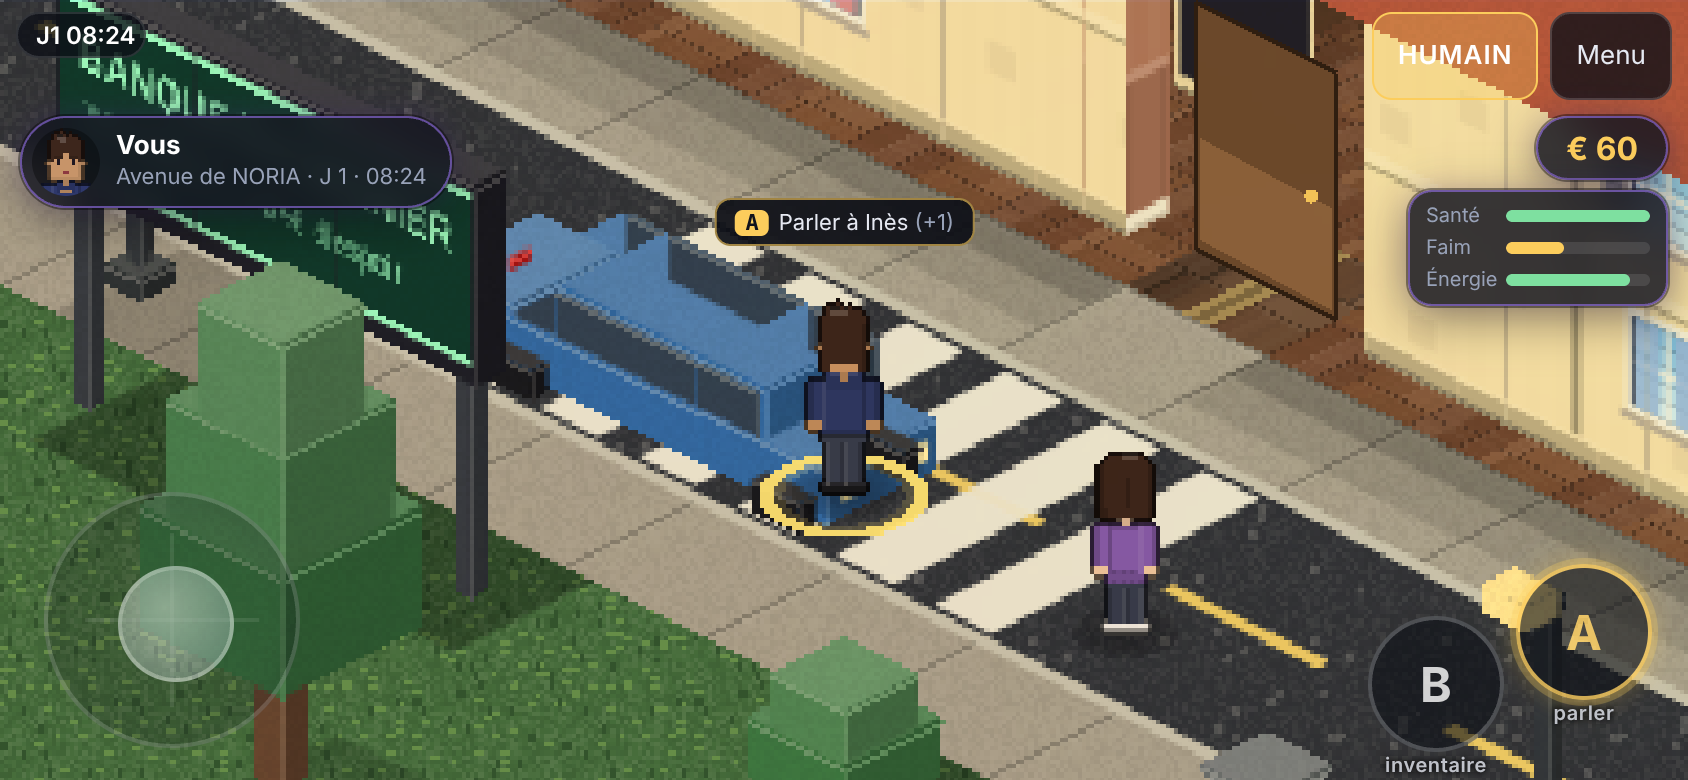
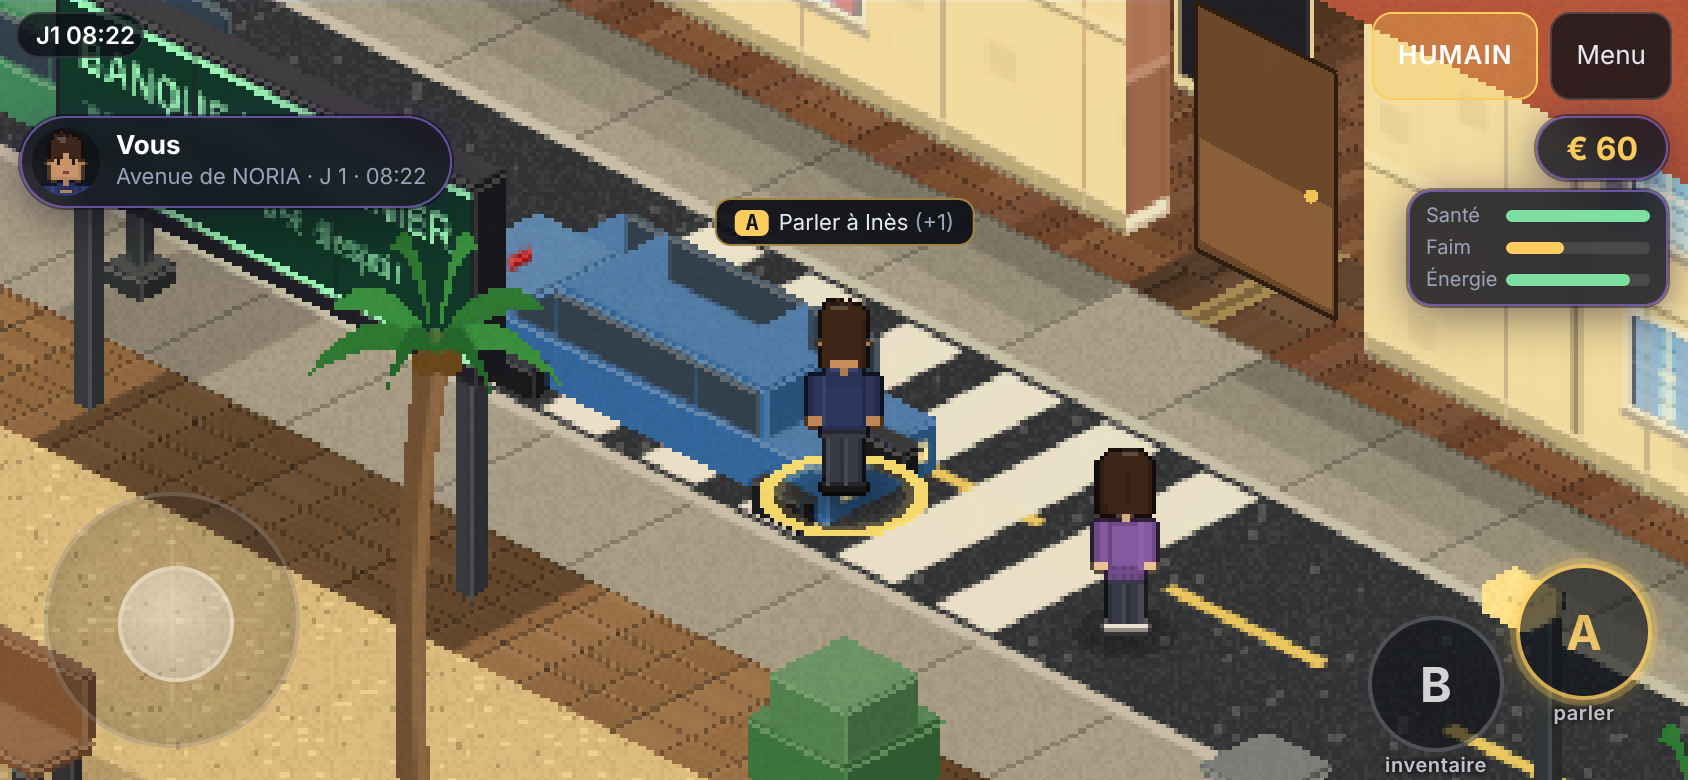
P2 Noria Beach : promenade, sable, océan non praticable, palmiers, parasols, transats
Claude-Session: https://claude.ai/code/session_01TgHL2ERFFt3nTP8cEL1RNQ

diff --git a/src/art/furn.ts b/src/art/furn.ts
@@ -6,7 +6,7 @@ export const PAD: Record<string, number> = {
   bed_y: 28, bed_yw: 28, nightstand: 34, wardrobe: 66, rug: 4, fridge: 58, counter: 38, counter_w: 38, stove: 64, sink_k: 44, table: 34,
   chair_s: 34, chair_n: 34, chair_e: 34, chair_w: 34, sofa_s: 40, armchair_e: 40, tv: 40, coffee_table: 18, bookshelf: 62, plant: 48, floor_lamp: 74,
   toilet: 34, shower: 78, sink_b: 70, bathtub: 26, washer: 40, basket: 24, bench: 22, coat_rack: 76, shoe_rack: 20, console: 50, bin: 22, altar: 40,
-  back_shelf: 70, bar_counter: 44, stool: 30, jukebox: 60, bar_table: 34, streetlamp: 100, street_bench: 30, bar_sign: 104, shelf3: 62, shelf4: 62, shop_counter: 46, desk: 42, park_bench: 30, bush: 40, hydrant: 22, mailbox: 36, kiosk: 62, billboard: 100, dumpster: 36, vending: 62, planter: 30, bike_rack: 22, car_p: 38, car_w: 38, phone_booth: 74, tree: 120, m_clothes: 12, m_book: 12, m_cup: 14, m_pizza: 12, m_trash: 16, m_dishes: 14, m_feast0: 30, m_feast1: 30, m_feast2: 30,
+  back_shelf: 70, bar_counter: 44, stool: 30, jukebox: 60, bar_table: 34, streetlamp: 100, street_bench: 30, bar_sign: 104, shelf3: 62, shelf4: 62, shop_counter: 46, desk: 42, park_bench: 30, bush: 40, hydrant: 22, mailbox: 36, kiosk: 62, billboard: 100, dumpster: 36, vending: 62, planter: 30, bike_rack: 22, car_p: 38, car_w: 38, phone_booth: 74, tree: 120, palm: 150, parasol: 96, lounger: 20, m_clothes: 12, m_book: 12, m_cup: 14, m_pizza: 12, m_trash: 16, m_dishes: 14, m_feast0: 30, m_feast1: 30, m_feast2: 30,
 };
 const OVERLAYS = ['shower', 'bathtub'];
 const WOOD = c(0.66, 0.47, 0.3), WOOD_D = c(0.4, 0.27, 0.18), WOOD_L = c(0.82, 0.64, 0.44), WHITE = c(0.93, 0.93, 0.95), STEEL = c(0.7, 0.74, 0.78), STONE = c(0.86, 0.84, 0.8);
@@ -216,6 +216,17 @@ function paint(def: string, style: number, w: number, d: number, overlay: boolea
       if (style % 2 === 0) { B(0.58, 0.18, 14, 0.7, 0.3, 18, c(0.95, 0.55, 0.65)); B(0.22, 0.6, 16, 0.34, 0.72, 20, c(0.98, 0.85, 0.4)); }
       break;
     }
+    case 'palm': {
+      // palmier dessiné à la main : tronc courbe, palmes en éventail (le canevas fait 64 px de large, comme la case)
+      const cx = 32, gy = PADV + 16, top = gy - 118; G.lineCap = 'round';
+      G.strokeStyle = 'rgb(112,84,58)'; G.lineWidth = 7; G.beginPath(); G.moveTo(cx - 1, gy - 2); G.quadraticCurveTo(cx - 6, gy - 60, cx + 3, top + 4); G.stroke();
+      G.strokeStyle = 'rgb(140,108,76)'; G.lineWidth = 3; G.beginPath(); G.moveTo(cx + 1, gy - 4); G.quadraticCurveTo(cx - 4, gy - 60, cx + 5, top + 4); G.stroke();
+      const fr: [number, number, string][] = [[-30, 8, '#2f7d3a'], [-24, -8, '#3a9446'], [-10, -22, '#2f7d3a'], [10, -22, '#3a9446'], [26, -8, '#2f7d3a'], [30, 10, '#3a9446'], [-12, 14, '#256a30'], [14, 15, '#256a30']];
+      for (const [dx, dy, col] of fr) { G.fillStyle = col; G.beginPath(); G.moveTo(cx + 3, top + 4); G.quadraticCurveTo(cx + 3 + dx * 0.5, top + 4 + Math.min(dy, 0) - 14, cx + 3 + dx, top + 4 + dy); G.quadraticCurveTo(cx + 3 + dx * 0.55, top + 4 + Math.min(dy, 0) - 3, cx + 3, top + 6); G.fill(); }
+      G.fillStyle = '#6b4a1e'; G.beginPath(); G.arc(cx + 1, top + 8, 3, 0, 7); G.arc(cx + 6, top + 8, 3, 0, 7); G.fill(); break;
+    }
+    case 'parasol': { const col = [c(0.9, 0.3, 0.3), c(0.95, 0.8, 0.25), c(0.25, 0.65, 0.85)][style % 3]; B(0.47, 0.47, 0, 0.53, 0.53, 66, c(0.85, 0.85, 0.85)); B(-0.35, -0.35, 66, 1.35, 1.35, 70, col); B(0, 0, 70, 1, 1, 76, shade(col, 0.1)); break; }
+    case 'lounger': B(0.05, 0.1, 0, w - 0.05, 0.9, 7, c(0.92, 0.92, 0.95)); B(w - 0.55, 0.1, 7, w - 0.05, 0.9, 16, c(0.28, 0.6, 0.85)); B(0.05, 0.1, 7, w - 0.55, 0.9, 10, c(0.28, 0.6, 0.85)); break;
     case 'tree': { const g2 = c(0.22, 0.46, 0.27); B(0.4, 0.4, 0, 0.6, 0.6, 44, c(0.4, 0.28, 0.2)); B(0, 0, 34, 1, 1, 62, g2); B(0.1, 0.1, 58, 0.9, 0.9, 86, shade(g2, 0.08)); B(0.2, 0.2, 82, 0.8, 0.8, 108, shade(g2, 0.16)); break; }
     case 'hydrant': B(0.34, 0.34, 0, 0.66, 0.66, 4, c(0.5, 0.1, 0.1)); B(0.38, 0.38, 4, 0.62, 0.62, 14, c(0.82, 0.16, 0.16)); B(0.3, 0.42, 9, 0.7, 0.58, 12, c(0.82, 0.16, 0.16)); B(0.4, 0.4, 14, 0.6, 0.6, 17, c(0.9, 0.3, 0.3)); break;
     case 'mailbox': B(0.36, 0.3, 0, 0.64, 0.7, 20, c(0.2, 0.34, 0.62)); B(0.34, 0.28, 20, 0.66, 0.72, 26, c(0.26, 0.42, 0.74)); B(0.4, 0.28, 12, 0.6, 0.3, 15, c(0.1, 0.12, 0.16)); break;

diff --git a/src/sim/layout.ts b/src/sim/layout.ts
@@ -36,7 +36,7 @@ export const BUILDINGS: Building[] = [
   { name: 'flats2', x0: 70, y0: 24, x1: 82, y1: 32, front: 110, kind: 'apartment', solid: true, h: 136, wall: 'concrete', roof: '#5a606c', title: 'RÉSIDENCE ORION', door: [76, 32] },
   { name: 'flats3', x0: 84, y0: 24, x1: 94, y1: 32, front: 96, kind: 'apartment', solid: true, h: 112, wall: 'beige', roof: '#7a5a4a', title: 'LES TILLEULS', door: [89, 32] },
 ];
-export const OUTDOOR = 'srg';
+export const OUTDOOR = 'srgynzq';
 /** Pièces des nouveaux bâtiments : M épicerie, Q commissariat, C cellule, T café, N/O/P halls d'immeubles (une lettre par pièce : l'éclairage se calcule par lettre). */
 export const CITY_ROOMS = 'MQCTNOPjmv';
 function buildMap(): string[] {
@@ -51,9 +51,19 @@ function buildMap(): string[] {
   for (let x = 44; x <= 48; x++) g[13][x] = '#';
   g[13][46] = 'F'; g[18][38] = 'E';
   applyCity(g);
+  applyBeach(g);
   return g.map((r) => r.join(''));
 }
 
+/** NORIA BEACH : promenade (y23), sable (y24-27), sable mouillé (y28), océan non praticable (y29-32), de x0 à x51. */
+export const BEACH = { x0: 0, x1: 51, board: 23, sand0: 24, sand1: 27, wet: 28, sea0: 29, sea1: 32 };
+function applyBeach(g: string[][]) {
+  for (let x = BEACH.x0; x <= BEACH.x1; x++) {
+    g[BEACH.board][x] = 'q'; for (let y = BEACH.sand0; y <= BEACH.sand1; y++) g[y][x] = 'y'; g[BEACH.wet][x] = 'n'; for (let y = BEACH.sea0; y <= BEACH.sea1; y++) g[y][x] = 'z';
+  }
+}
+export const isWater = (x: number, y: number) => y >= 0 && y < H && x >= 0 && x < W && MAP[y][x] === 'z';
+export const isBeach = (x: number, y: number) => x >= BEACH.x0 && x <= BEACH.x1 && y >= BEACH.board && y <= BEACH.sea1;
 // ---------------------------------------------------------------- ville : rues, intersections, bâtiments
 function applyCity(g: string[][]) {
   const set = (x: number, y: number, ch: string) => { if (x >= 0 && x < W && y >= 0 && y < H) g[y][x] = ch; };
@@ -136,8 +146,10 @@ export function furniture(): FurnPlacement[] {
   // --- Halls d'immeubles
   for (const [x0, x1] of [[71, 81], [85, 93]]) { f.push(P('console', x0 + 1, 25), P('plant', x1, 25, { style: 1 }), P('plant', x0, 31, { style: 0 }), P('bench', Math.floor((x0 + x1) / 2), 29, { w: 2, d: 1 })); }
   // --- Parc (x2..48, y24..32) et rues
-  for (const [x, y] of [[4, 26], [9, 30], [16, 25], [22, 29], [28, 26], [33, 31], [39, 25], [44, 29], [47, 26], [12, 27], [24, 32]]) f.push(P('tree', x, y, { style: x * 5 + y }));
-  for (const [x, y] of [[7, 28], [19, 27], [31, 28], [42, 27]]) f.push(P('park_bench', x, y));
+  for (const [x, y] of [[3, 25], [10, 24], [17, 25], [25, 24], [30, 26], [37, 25], [44, 24], [49, 26], [9, 23], [33, 23]]) f.push(P('palm', x, y, { style: x * 5 + y }));
+  for (const [x, y] of [[6, 26], [21, 26], [40, 26]]) f.push(P('parasol', x, y, { style: x }));
+  for (const [x, y] of [[7, 26], [22, 25], [41, 26]]) f.push(P('lounger', x, y));
+  for (const [x, y] of [[14, 26], [28, 27], [46, 27]]) f.push(P('park_bench', x, y));
   for (const x of [8, 16, 24, 32, 40, 48]) f.push(P('streetlamp', x, 33));
   for (const x of [58, 66, 74, 82, 90]) f.push(P('streetlamp', x, 22), P('streetlamp', x, 33));
   for (const y of [4, 12, 26, 29]) f.push(P('streetlamp', 52, y));
@@ -184,5 +196,5 @@ export function buildingAt(x: number, y: number) { return BUILDINGS.find((b) => 
 /** Nom du quartier à une position (affiché dans le HUD). */
 export function districtAt(x: number, y: number): string {
   const cx = Math.floor(x), cy = Math.floor(y); if (cx >= 52) return cy <= 22 ? 'Centre-ville' : cy <= 32 ? 'Résidences' : cy <= 36 ? 'Rue du Marché' : 'Faubourg';
-  if (cy >= 33 && cy <= 36) return 'Rue du Marché'; if (cy >= 19 && cy <= 22) return 'Avenue de NORIA'; if (cy > 22) return 'Parc des Tilleuls'; return cx <= 29 ? 'La Colocation' : cx >= 52 ? 'Centre-ville' : 'Quartier du Cinquième Ciel';
+  if (cy >= 33 && cy <= 36) return 'Rue du Marché'; if (cy >= 19 && cy <= 22) return 'Avenue de NORIA'; if (cy > 22 && cy < 33 && cx < 52) return 'Noria Beach'; if (cy > 22) return 'Faubourg'; return cx <= 29 ? 'La Colocation' : cx >= 52 ? 'Centre-ville' : 'Quartier du Cinquième Ciel';
 }

diff --git a/src/art/core.ts b/src/art/core.ts
@@ -86,6 +86,10 @@ function floorColor(kind: string, a: number, b: number, v: number, x: number, y:
       return q === 0 ? wood(c(0.5, 0.33, 0.22), qa, qb, v, 3, true) : wood(c(0.45, 0.29, 0.2), qa, qb, v + 7, 3, false);
     }
     case 'concrete': { let base = shade(c(0.56, 0.58, 0.6), (hash2(x, y, v) - 0.5) * 0.12); if (a < 0.03 || b < 0.03) base = shade(base, -0.12); return base; }
+    case 'sand': { let col = shade(c(0.86, 0.77, 0.56), (hash2(x, y, v) - 0.5) * 0.1); if (hash2(x >> 1, y, v + 5) > 0.95) col = c(0.93, 0.85, 0.65); if (hash2(x, y, v + 9) > 0.985) col = c(0.7, 0.62, 0.45); return col; }
+    case 'wet_sand': { let col = shade(c(0.66, 0.58, 0.42), (hash2(x, y, v) - 0.5) * 0.08); if (hash2(x, y >> 1, v + 2) > 0.94) col = c(0.74, 0.68, 0.52); return col; }
+    case 'water': { const wv = Math.sin((a * 6 + b * 3 + v * 1.7)) * 0.5 + Math.sin(b * 9 - a * 2 + v) * 0.5; let col = shade(c(0.16, 0.5, 0.66), wv * 0.07 + (hash2(x, y, v) - 0.5) * 0.04); if (hash2(x >> 1, y >> 1, v + 4) > 0.93) col = c(0.5, 0.82, 0.9); return col; }
+    case 'boardwalk': { const pl = (b * 4) % 1; let col = wood(c(0.6, 0.45, 0.3), a, pl, v, 3, false); if (pl < 0.07) col = shade(col, -0.25); return col; }
     case 'grass': {
       let col = shade(c(0.27, 0.44, 0.26), (hash2(x, y, v) - 0.5) * 0.18);
       if (hash2(x >> 1, y, v + 1) > 0.93) col = c(0.4, 0.58, 0.32); if (hash2(x, y >> 1, v + 2) > 0.96) col = c(0.2, 0.34, 0.2); return col;
@@ -110,7 +114,7 @@ export function floorTile(kind: string, variant: number): HTMLCanvasElement {
   }
   g.putImageData(im, 0, 0); floorCache.set(key, cv); return cv;
 }
-export const FLOOR_STYLES: Record<string, string> = { a: 'wood_a', b: 'wood_b', c: 'wood_c', d: 'wood_d', h: 'wood_hall', k: 'tile_kitchen', l: 'parquet', j: 'parquet', m: 'wood_c', v: 'tile_bath', w: 'tile_bath', u: 'concrete', door: 'threshold', B: 'bar_floor', R: 'tile_dark', s: 'sidewalk', r: 'road', g: 'grass', M: 'tile_kitchen', Q: 'concrete', C: 'tile_dark', T: 'parquet', N: 'wood_hall', O: 'wood_hall', P: 'wood_hall' };
+export const FLOOR_STYLES: Record<string, string> = { a: 'wood_a', b: 'wood_b', c: 'wood_c', d: 'wood_d', h: 'wood_hall', k: 'tile_kitchen', l: 'parquet', j: 'parquet', m: 'wood_c', v: 'tile_bath', w: 'tile_bath', u: 'concrete', door: 'threshold', B: 'bar_floor', R: 'tile_dark', s: 'sidewalk', r: 'road', g: 'grass', y: 'sand', n: 'wet_sand', z: 'water', q: 'boardwalk', M: 'tile_kitchen', Q: 'concrete', C: 'tile_dark', T: 'parquet', N: 'wood_hall', O: 'wood_hall', P: 'wood_hall' };
 
 // ------------------------------------------------------------------ murs fins
 export interface FaceSpec { c: C; dec: 'none' | 'window' | 'picture' | 'door' | 'neon' | 'shopwin'; tiled: boolean; art: number; ext?: ExtSpec }

diff --git a/src/view/scene.ts b/src/view/scene.ts
@@ -166,7 +166,7 @@ export class GameScene extends Phaser.Scene {
       if (L.isWall(cx, cy - 1)) { fill([o, P(o, 32, 16), P(o, 23, 20.5), P(o, -9, 4.5)], 0.16); fill([o, P(o, 32, 16), P(o, 12, 26), P(o, -20, 10)], 0.1); }
       if (L.isWall(cx - 1, cy)) { fill([o, P(o, -32, 16), P(o, -23, 20.5), P(o, 9, 4.5)], 0.16); fill([o, P(o, -32, 16), P(o, -12, 26), P(o, 20, 10)], 0.1); }
     }
-    const TALL = ['wardrobe', 'fridge', 'bookshelf', 'coat_rack', 'stove', 'shower', 'floor_lamp', 'plant', 'sink_b', 'back_shelf', 'jukebox', 'streetlamp', 'tree', 'bar_sign', 'shelf3', 'shelf4'];
+    const TALL = ['wardrobe', 'fridge', 'bookshelf', 'coat_rack', 'stove', 'shower', 'floor_lamp', 'plant', 'sink_b', 'back_shelf', 'jukebox', 'streetlamp', 'tree', 'palm', 'parasol', 'bar_sign', 'shelf3', 'shelf4'];
     for (const f of this.world.furn) {
       if (!f.blocks || f.x > r.a1 + 1 || f.x + f.w < r.a0 || f.y > r.b1 + 1 || f.y + f.d < r.b0) continue; const k = TALL.includes(f.def) ? 1.8 : 1; const sh = { x: 7 * k, y: 3.5 * k };
       for (let i = 0; i < f.w; i++) for (let j = 0; j < f.d; j++) { const o = toScreen(f.x + i, f.y + j); fill([P(o, sh.x, sh.y), P(o, 32 + sh.x, 16 + sh.y), P(o, sh.x, 32 + sh.y), P(o, -32 + sh.x, 16 + sh.y)], 0.17); }

diff --git a/src/sim/god.ts b/src/sim/god.ts
@@ -23,7 +23,7 @@ export interface DivineEntry { t: number; power: string; target: number; text: s
 function note(w: World, power: string, target: number, text: string) { w.divine.push({ t: w.clock, power, target, text }); if (w.divine.length > 80) w.divine.shift(); w.emitLog(text, 'god', target); }
 export const PLACES: Record<string, { label: string; x: number; y: number }> = {
   flat: { label: 'Mon appartement', x: 66.5, y: 28.5 }, street: { label: 'Avenue', x: 70.5, y: 19.5 }, store: { label: 'Épicerie', x: 61.5, y: 14.5 }, bar: { label: 'Bar', x: 38.5, y: 15.5 },
-  station: { label: 'Commissariat', x: 75.5, y: 14.5 }, park: { label: 'Parc', x: 20.5, y: 28.5 }, house: { label: 'Maison', x: 14.5, y: 13.5 },
+  station: { label: 'Commissariat', x: 75.5, y: 14.5 }, park: { label: 'Plage', x: 20.5, y: 28.5 }, house: { label: 'Maison', x: 14.5, y: 13.5 },
 };
 /** Efface chez les témoins proches (vue directe, ≤ 9 cases) ce qu'ils savent de `subject` : souvenirs de délit, connaissances d'événements, appels en attente. Retourne le nombre de personnes touchées. */
 export function forget(w: World, center: { x: number; y: number }, subject: number): number {

diff --git a/src/sim/defs.ts b/src/sim/defs.ts
@@ -96,7 +96,8 @@ export const FURN: Record<string, FurnDef> = {
   park_bench: F(2, 1, true, [S(['sit'], [[0, 1]], 'sit', 3, [0.5, 0.45]), S(['sit'], [[1, 1]], 'sit', 3, [1.5, 0.45])]),
   streetlamp: F(1, 1, true, [], { light: { h: 84, r: 2.0 } }),
   street_bench: F(2, 1, true), bar_sign: F(1, 1, false, [], { light: { h: 70, r: 1.7 } }),
-  tree: F(1, 1, true), bush: F(1, 1, true),
+  tree: F(1, 1, true), bush: F(1, 1, true), palm: F(1, 1, true), parasol: F(1, 1, true),
+  lounger: F(2, 1, true, [S(['sit'], [[0, 1]], 'sit', 3, [0.5, 0.45]), S(['sit'], [[1, 1]], 'sit', 3, [1.5, 0.45])]),
   // --- mobilier de rue varié
   hydrant: F(1, 1, true), mailbox: F(1, 1, true), kiosk: F(2, 1, true), billboard: F(3, 1, true), dumpster: F(2, 1, true), vending: F(1, 1, true, [], { light: { h: 40, r: 1.0 } }),
   planter: F(2, 1, true), bike_rack: F(2, 1, true), car_p: F(3, 1, true), phone_booth: F(1, 1, true),

diff --git a/src/sim/city.ts b/src/sim/city.ts
@@ -63,7 +63,7 @@ function entryAt(c: SimChar, h: number): { from: number; to: number; where: Wher
 function nextStart(c: SimChar, h: number): number { const s = sched(c).sched; for (const [a] of s) if (a > h) return a; return s[0][0] + 24; }
 
 const inBuilding = (c: SimChar, name: string) => L.buildingAt(c.cell().x, c.cell().y)?.name === name;
-const isPark = (c: Furn) => c.def === 'park_bench';
+const isPark = (c: Furn) => c.def === 'park_bench' || c.def === 'lounger';
 function nearestSlot(w: World, c: SimChar, tag: string, ok: (f: Furn) => boolean) {
   let best: { f: number; s: number; stand: V2 } | null = null, bd = 1e9;
   for (const s of w.freeSlots(tag)) { const f = w.furn[s.f]; if (!ok(f)) continue; const d = dist(c.pos, { x: s.stand.x + 0.5, y: s.stand.y + 0.5 }) + w.rng.randf() * 4; if (d < bd) { bd = d; best = s; } }

diff --git a/src/sim/world.ts b/src/sim/world.ts
@@ -84,7 +84,7 @@ export class World {
   }
   private buildGrid() {
     this.astar = new AStar(L.W, L.H);
-    for (let y = 0; y < L.H; y++) for (let x = 0; x < L.W; x++) if (L.isWall(x, y) || this.cellFurn.has(this.key(x, y))) this.astar.setSolid(x, y, true);
+    for (let y = 0; y < L.H; y++) for (let x = 0; x < L.W; x++) if (L.isWall(x, y) || L.isWater(x, y) || this.cellFurn.has(this.key(x, y))) this.astar.setSolid(x, y, true);
   }
   private buildChars() {
     this.chars = [];
